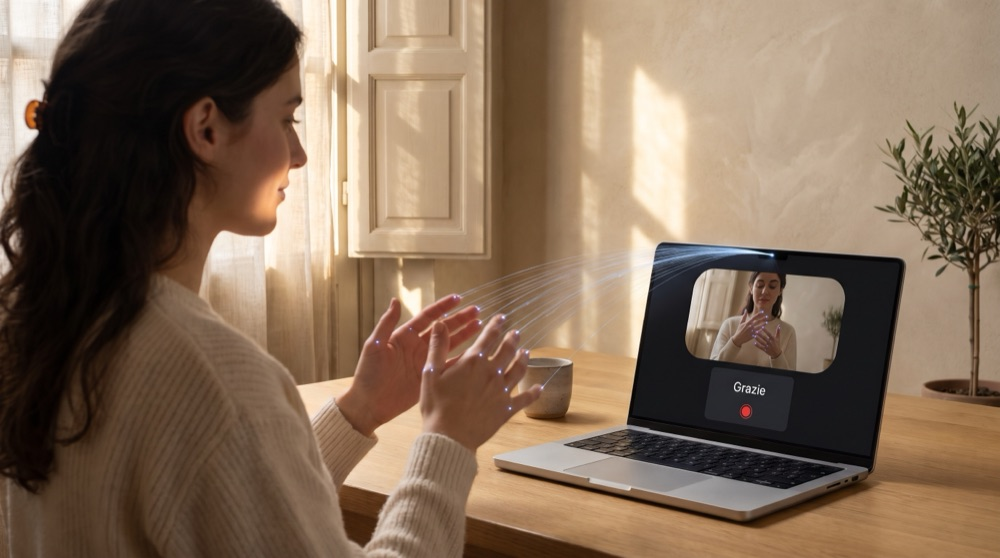
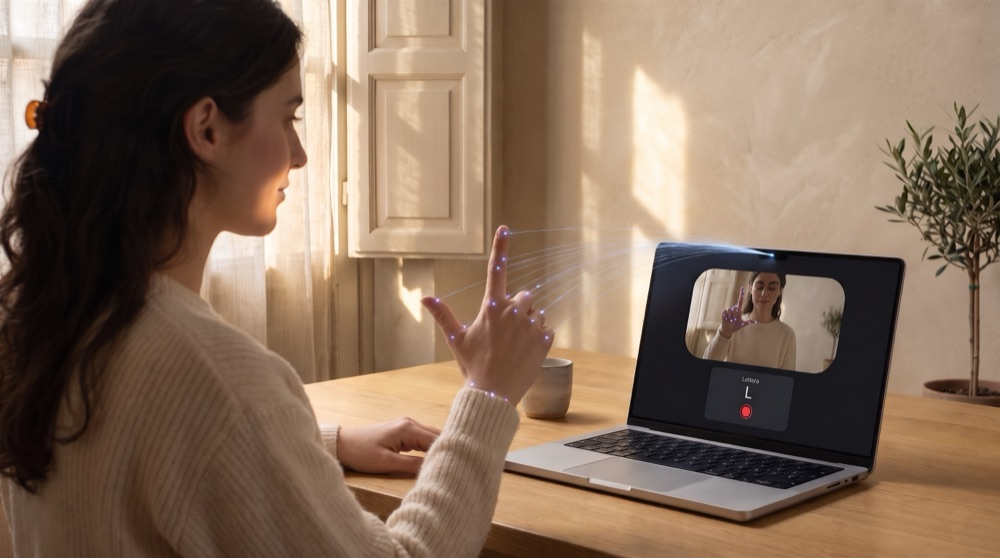
Home: la ragazza forma la lettera L della dattilologia LIS
Immagine modificata con Gemini 3 Pro Image partendo dalla precedente:
la mano destra forma la L dell'alfabeto manuale (uguale a quello
internazionale per questa lettera) e lo schermo mostra "Lettera L".
Aggiornati testo alternativo e didascalia.

diff --git a/public/app.js b/public/app.js
@@ -222,8 +222,8 @@ async function home(el) {
     <div class="row"><a class="btn btn-primary btn-lg" href="${start}">Inizia a contribuire</a><button class="link" type="button" data-scroll="#come">Scopri come</button></div>
     <figure class="hero-media reveal">
       <img src="/img/hero-1600.jpg" srcset="/img/hero-1000.jpg 1000w, /img/hero-1600.jpg 1600w, /img/hero-2400.jpg 2400w" sizes="(max-width: 1148px) 100vw, 1100px"
-        width="1600" height="893" fetchpriority="high" alt="Una ragazza segna in LIS davanti a un portatile, in una stanza illuminata dal sole. Dalla fotocamera partono sottili fili di luce che si posano sulle articolazioni delle sue dita; sullo schermo, il suo video e la parola «Grazie».">
-      <figcaption class="tiny">Immagine illustrativa generata con AI.</figcaption>
+        width="1600" height="893" fetchpriority="high" alt="Una ragazza, davanti a un portatile in una stanza illuminata dal sole, forma con la mano destra la lettera L dell'alfabeto manuale LIS. Dalla fotocamera partono sottili fili di luce che si posano sulle articolazioni delle sue dita; sullo schermo, il suo video e la lettera L.">
+      <figcaption class="tiny">La lettera L della dattilologia LIS. Immagine illustrativa generata con AI.</figcaption>
     </figure>
   </section>
 
